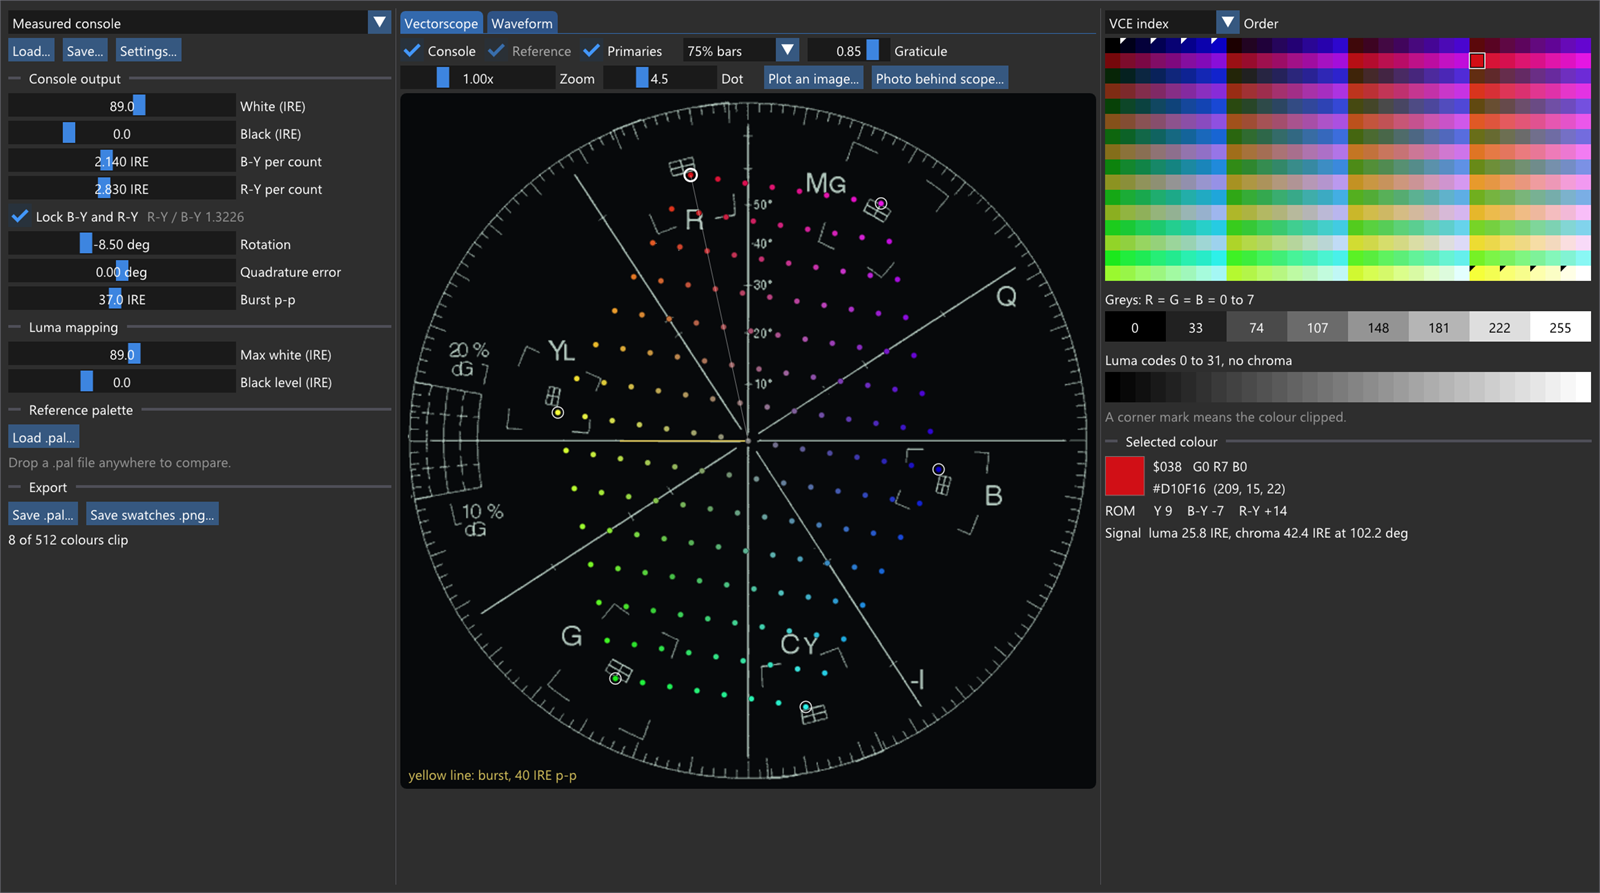
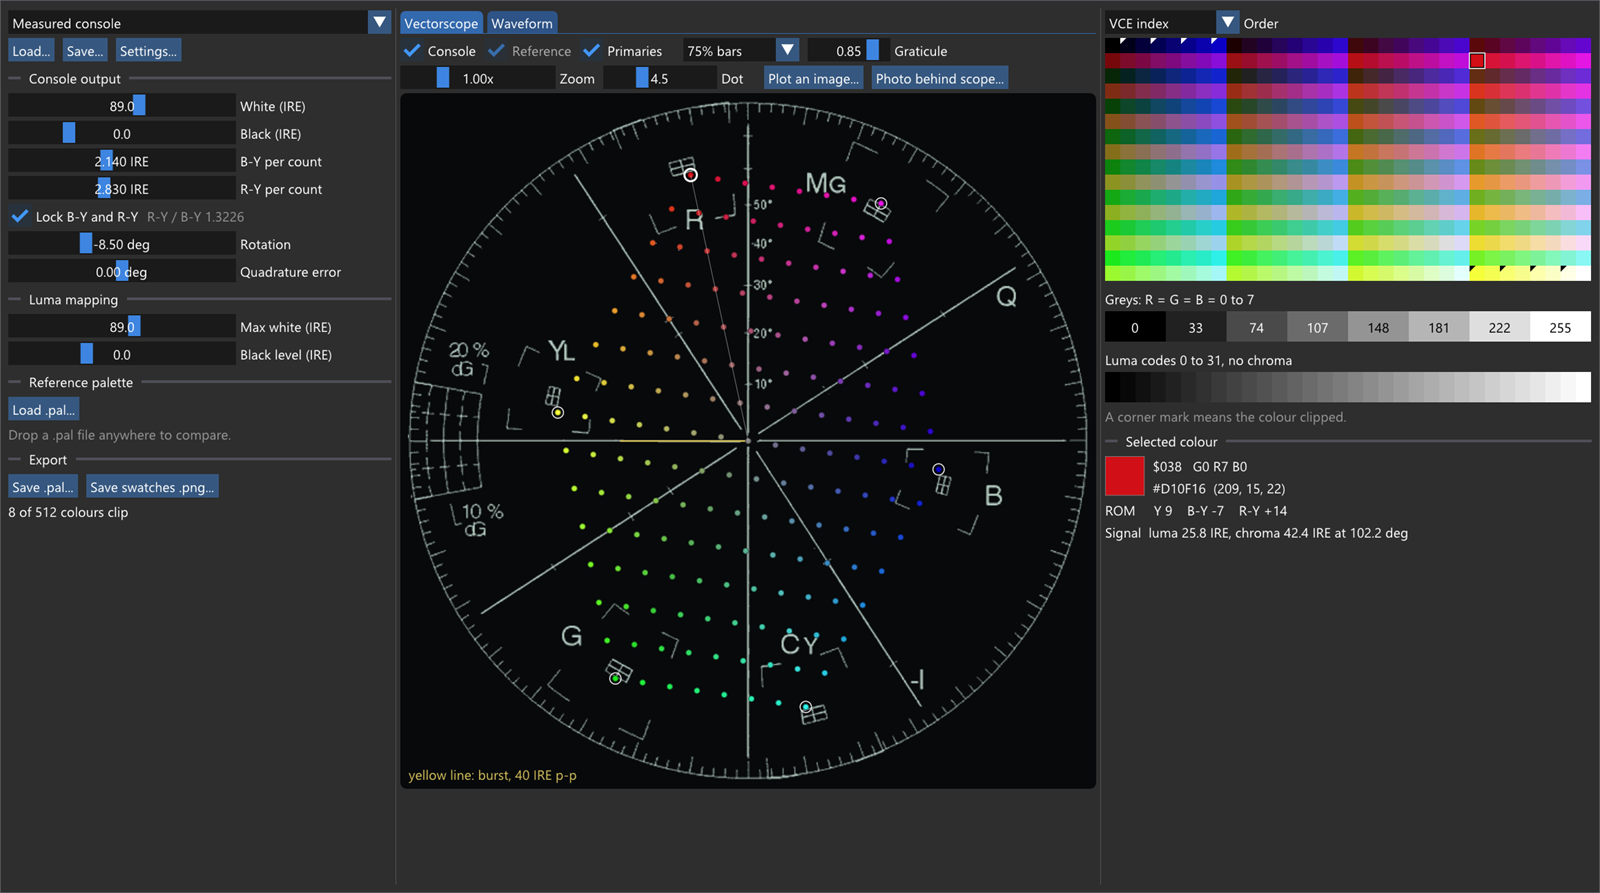
Burst p-p setting removed; version 0.2.1
- The slider had no effect on the palette or the vectorscope: the B-Y and R-Y steps are stated
  against burst. It only moved the burst box and the chroma envelopes on the waveform view.
- The waveform view now draws them at the measured 37 IRE p-p (vce::BURST_PP_IRE).
- Parameter files no longer carry burst_pp_ire. Older files still load to the same palette; the
  key is read only to convert a file that has acc=0.
- FINDINGS section 12: burst is stated as a measured level, not a parameter.
- README screenshots retaken.

Changed region(s): [[0.0, 0.3024, 0.2188, 0.6349]]

diff --git a/src/app.cpp b/src/app.cpp
@@ -674,8 +674,6 @@ void ui_model() {
     ImGui::TextDisabled("R-Y / B-Y %.4f", g_params.ry_gain);
     slide("Rotation", &g_params.rotation_deg, -25, 25, "%.2f deg", "The whole chroma pattern against burst. The scope photo gives -8.3 to -8.7,\nand about ten consoles across the range showed much the same, so it is part of the default.");
     slide("Quadrature error", &g_params.quadrature_deg, -20, 20, "%.2f deg", "R-Y axis away from 90 degrees to the B-Y axis.");
-    slide("Burst p-p", &g_params.burst_pp_ire, 30, 45, "%.1f IRE",
-          "Burst as it really is with sync at 40 IRE. Measured 37 to 40.\nOnly matters to the waveform view; the palette does not depend on it.");
 
     ImGui::SeparatorText("Luma mapping");
     slide("Max white (IRE)", &g_params.map_white_ire, 50, 120, "%.1f",
@@ -1176,7 +1174,7 @@ void ui_wave() {
                       ImVec2(x + sync_w * 0.45f, Y(-40)), ImVec2(x + sync_w * 0.45f, Y(0)), ImVec2(x + sync_w, Y(0))};
     dl->AddPolyline(sync, 6, trace, 0, 1.5f);
     if (!g_wave.lowpass) {
-        float b = (float)g_params.burst_pp_ire * 0.5f;
+        float b = (float)vce::BURST_PP_IRE * 0.5f;
         dl->AddRectFilled(ImVec2(x + sync_w * 0.55f, Y(b)), ImVec2(x + sync_w * 0.9f, Y(-b)), IM_COL32(210, 190, 90, 110));
         dl->AddRect(ImVec2(x + sync_w * 0.55f, Y(b)), ImVec2(x + sync_w * 0.9f, Y(-b)), IM_COL32(210, 190, 90, 255));
     }
@@ -1184,7 +1182,7 @@ void ui_wave() {
     std::vector<Bar> bars = wave_bars();
     float x0 = left + sync_w, bw = (right - x0) / (float)bars.size();
     vce::Carrier shape = g_wave.shape == 0 ? vce::Carrier::Sine : g_wave.shape == 1 ? vce::Carrier::ThreeLevel : vce::Carrier::Square;
-    double burst_scale = g_params.burst_pp_ire / 40.0;
+    double burst_scale = vce::BURST_PP_IRE / 40.0;  // the steps are against burst at 40 IRE; this view shows the wire
 
     struct Level {  // a bar of one signal: its luma level and the peak of the chroma around it
         double luma, peak;

diff --git a/src/vce_model.cpp b/src/vce_model.cpp
@@ -214,7 +214,6 @@ const Field FIELDS[] = {
     {"ry_gain", &Params::ry_gain, nullptr, nullptr},
     {"rotation_deg", &Params::rotation_deg, nullptr, nullptr},
     {"quadrature_deg", &Params::quadrature_deg, nullptr, nullptr},
-    {"burst_pp_ire", &Params::burst_pp_ire, nullptr, nullptr},
     {"map_white_ire", &Params::map_white_ire, nullptr, nullptr},
     {"map_black_ire", &Params::map_black_ire, nullptr, nullptr},
     {"post", nullptr, &Params::post, nullptr},
@@ -244,6 +243,7 @@ bool from_text(const std::string& text, Params& p) {
     int found = 0;
     int auto_contrast = -1;  // only in files written before the luma mapping existed
     bool acc = true;         // only in files written while chroma could be taken at its level on the wire
+    double burst = BURST_PP_IRE;  // only in files written while the burst level was a setting; matters with acc off
     bool levels = false, controls = false, knobs = false;
     std::istringstream in(text);
     std::string line;
@@ -268,6 +268,9 @@ bool from_text(const std::string& text, Params& p) {
         } else if (key == "acc") {
             acc = std::atoi(value) != 0;
             found++;
+        } else if (key == "burst_pp_ire") {
+            burst = std::strtod(value, nullptr);
+            found++;
         } else if (key == "map_white_ire" || key == "map_black_ire")
             levels = true;
         else if (key == "post")
@@ -289,7 +292,7 @@ bool from_text(const std::string& text, Params& p) {
     if (!acc) {
         if (!q.post) q.contrast = 1.0, q.brightness = 0.0, q.saturation = 1.0, q.tint_deg = 0.0;  // not in use
         q.post = true;
-        q.saturation *= q.burst_pp_ire / 40.0;
+        q.saturation *= burst / 40.0;
     }
     // The picture-tube settings of older files (tube, primaries, white_point, crt_gamma) are not read: that stage is gone.
     p = q;

diff --git a/src/vce_model.h b/src/vce_model.h
@@ -6,6 +6,11 @@
 
 namespace vce {
 
+// Burst on the wire, peak to peak, with sync at 40 IRE: measured 37 to 40. Not a setting. The chroma steps are stated
+// against burst, so the palette and the vectorscope do not depend on it; the waveform view draws burst and the chroma
+// envelopes at this level.
+constexpr double BURST_PP_IRE = 37.0;
+
 struct Params {
     // --- Console: what the chip and its mixing resistors put on the composite pin.
     double white_ire = 89.0;        // luma code 31, with sync at 40 IRE
@@ -14,7 +19,6 @@ struct Params {
     double ry_gain = 8.2 / 6.2;     // R-Y is mixed in this much stronger than B-Y (8.2k / 6.2k)
     double rotation_deg = -8.5;     // whole chroma pattern against burst
     double quadrature_deg = 0.0;    // R-Y axis error from 90 degrees
-    double burst_pp_ire = 37.0;     // burst as it really is, with sync at 40 IRE; the palette does not depend on it
     // --- Luma mapping: the signal levels that come out as full white and as black.
     double map_white_ire = 89.0;    // max white; the default is the console's own white, so code 31 is full scale
     double map_black_ire = 0.0;

diff --git a/FINDINGS.md b/FINDINGS.md
@@ -460,7 +460,10 @@ U and V are in IRE on a vectorscope with burst at 40 IRE p-p and at 180 deg.
 | R-Y / B-Y gain | g | 8.2 / 6.2 | SCH, VS |
 | Rotation | rot | -8.5 deg | VS |
 | Quadrature error | q | 0 deg | VS (not resolved) |
-| Burst | - | 37 IRE p-p | WFM |
+
+Burst on the wire is 37 IRE p-p (WFM). It is not a parameter: k is already
+stated against burst, so the palette and the vectorscope do not depend on it.
+The waveform view draws burst and the chroma envelopes at that level.
 
 Decode to RGB (standard NTSC):
 
